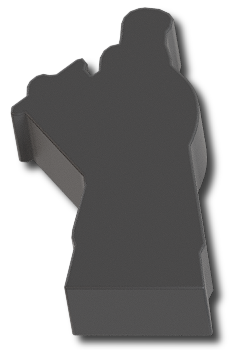
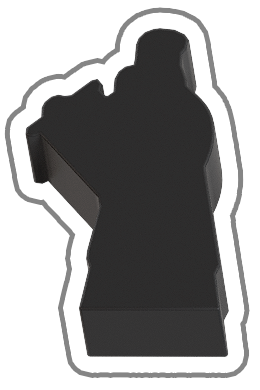
New assets for Architect pawns

diff --git a/app/src/material/ArchitectDescription.ts b/app/src/material/ArchitectDescription.ts
@@ -6,8 +6,8 @@ import { ArchitectHelp } from "./help/ArchitectHelp"
 
 class ArchitectDescription extends TokenDescription {
   borderRadius = 0.5
-  width = 2.3 * 0.7
-  height = 3.5 * 0.7
+  width = 2.6 * 0.7
+  height = 3.9 * 0.7
   
   images = {
     [PlayerColor.Black]: BlackArchitect,
